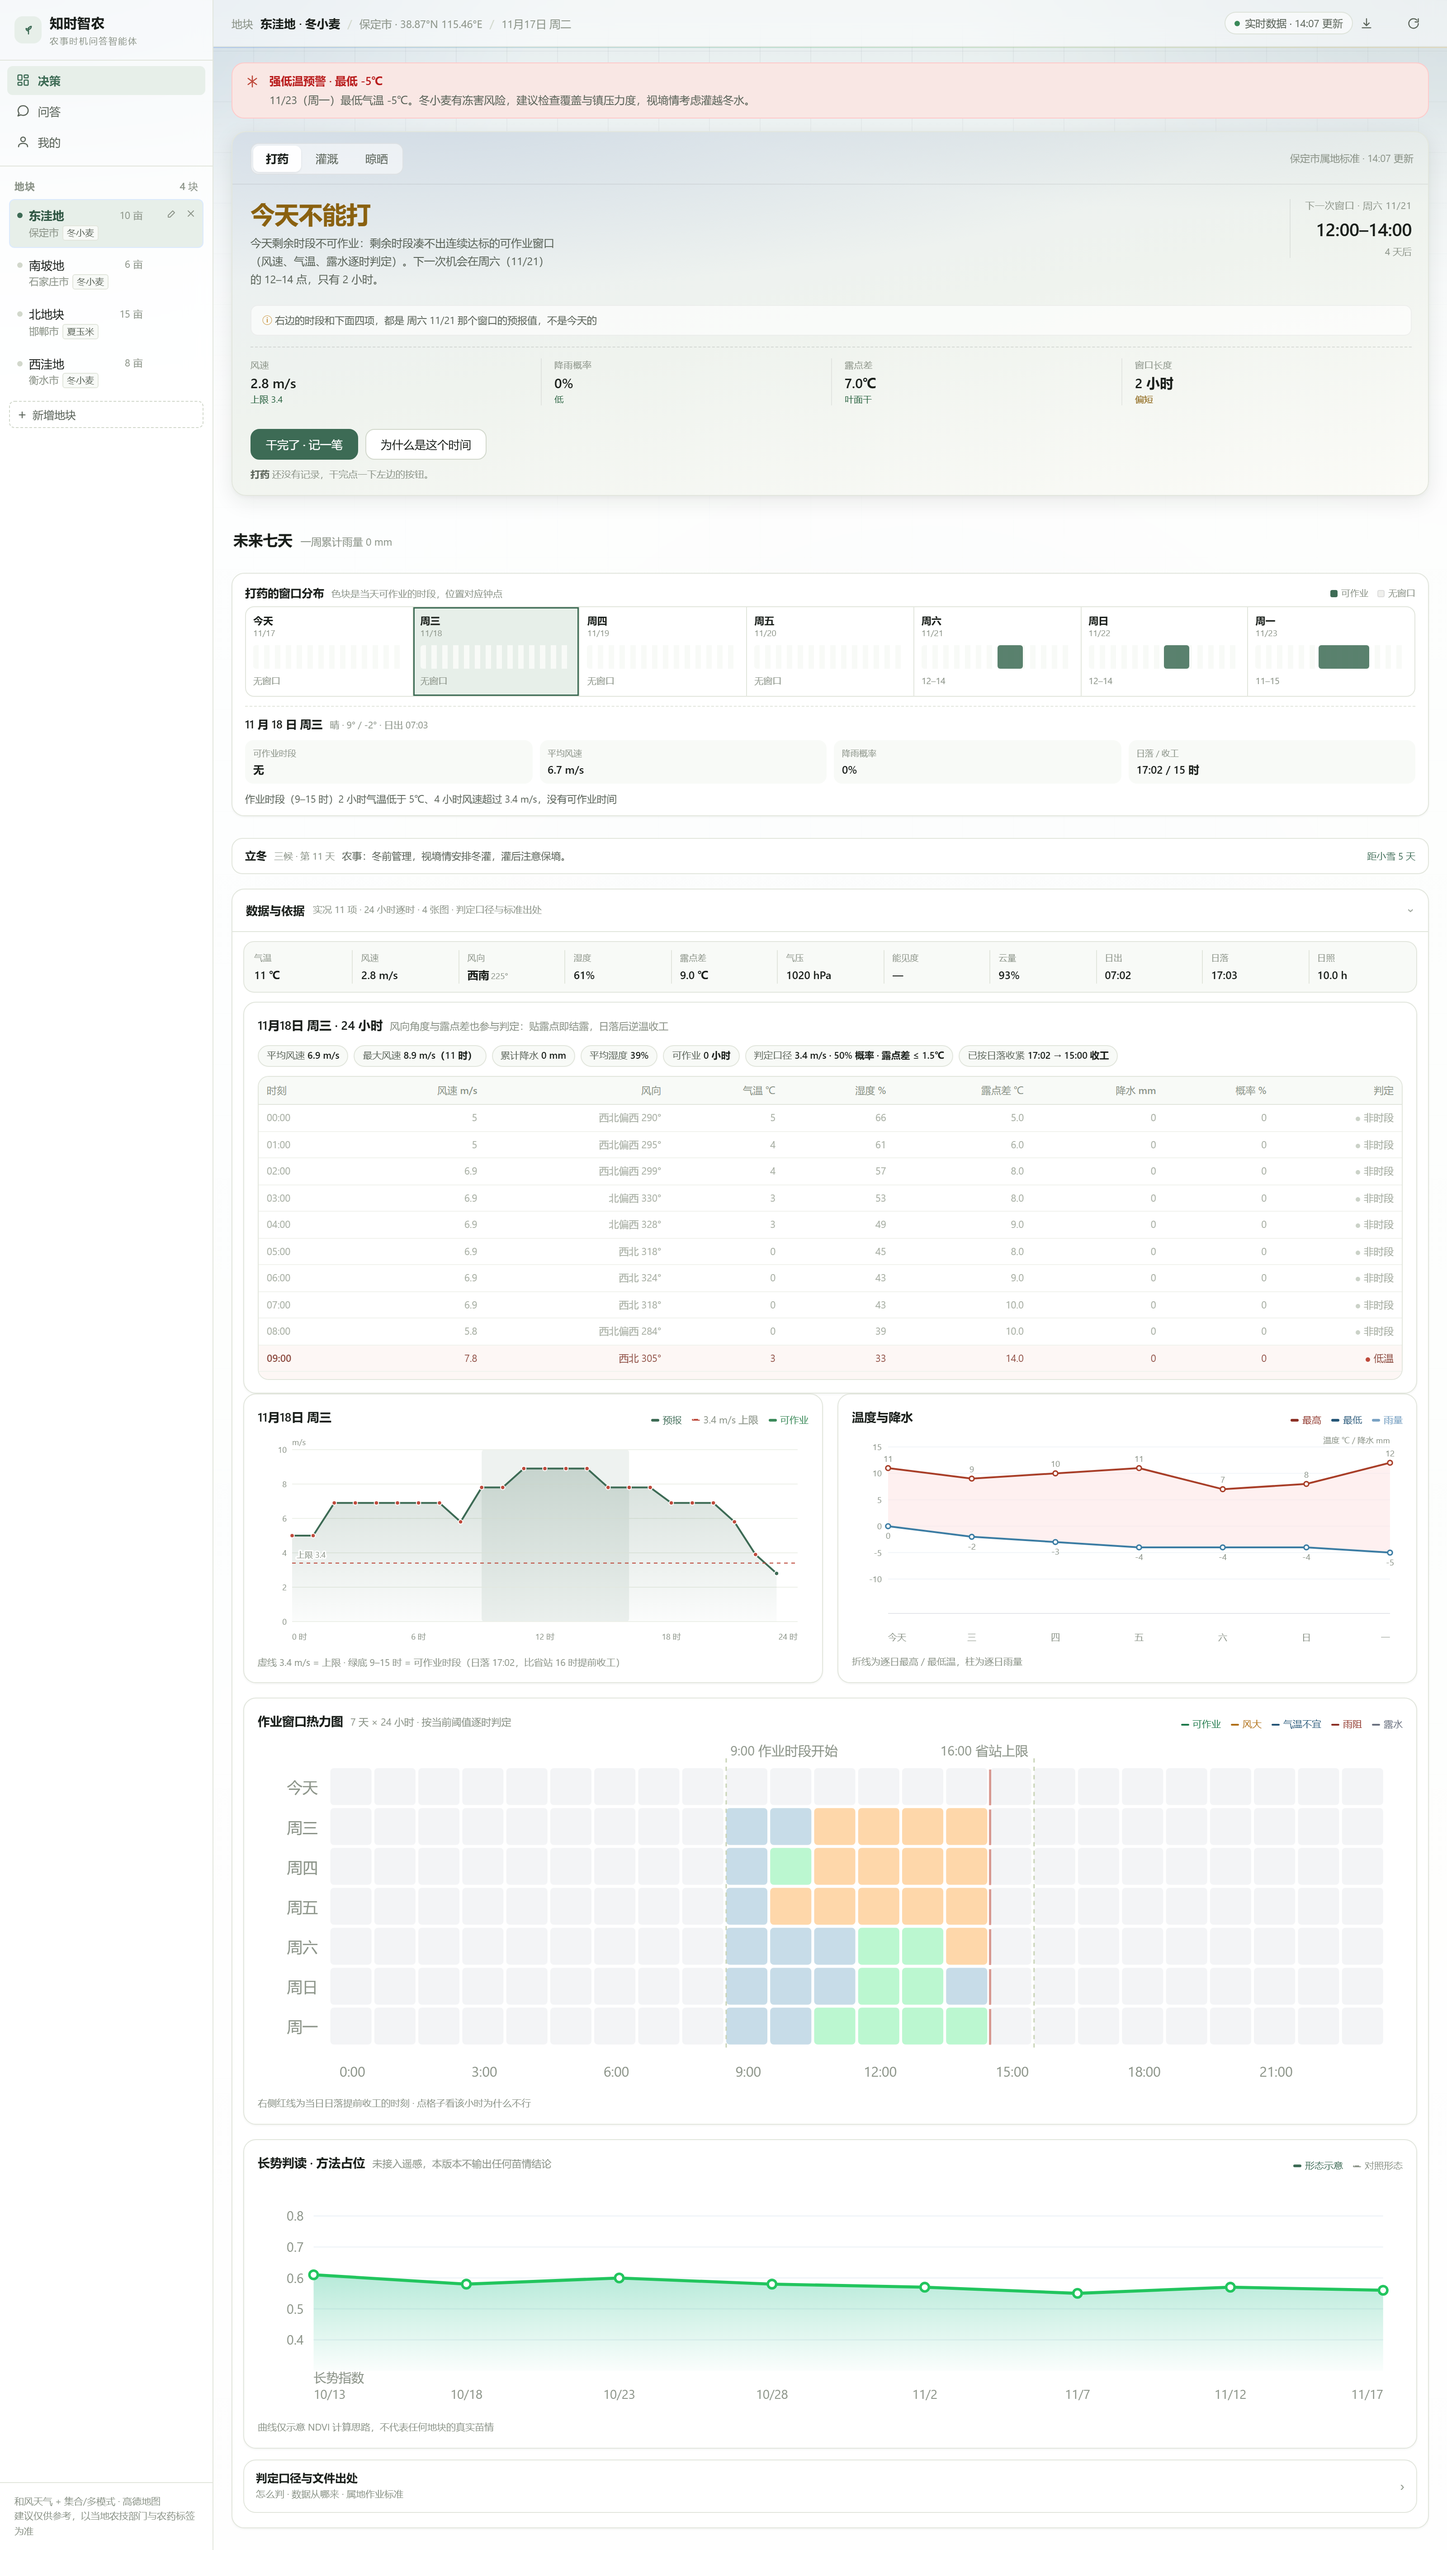
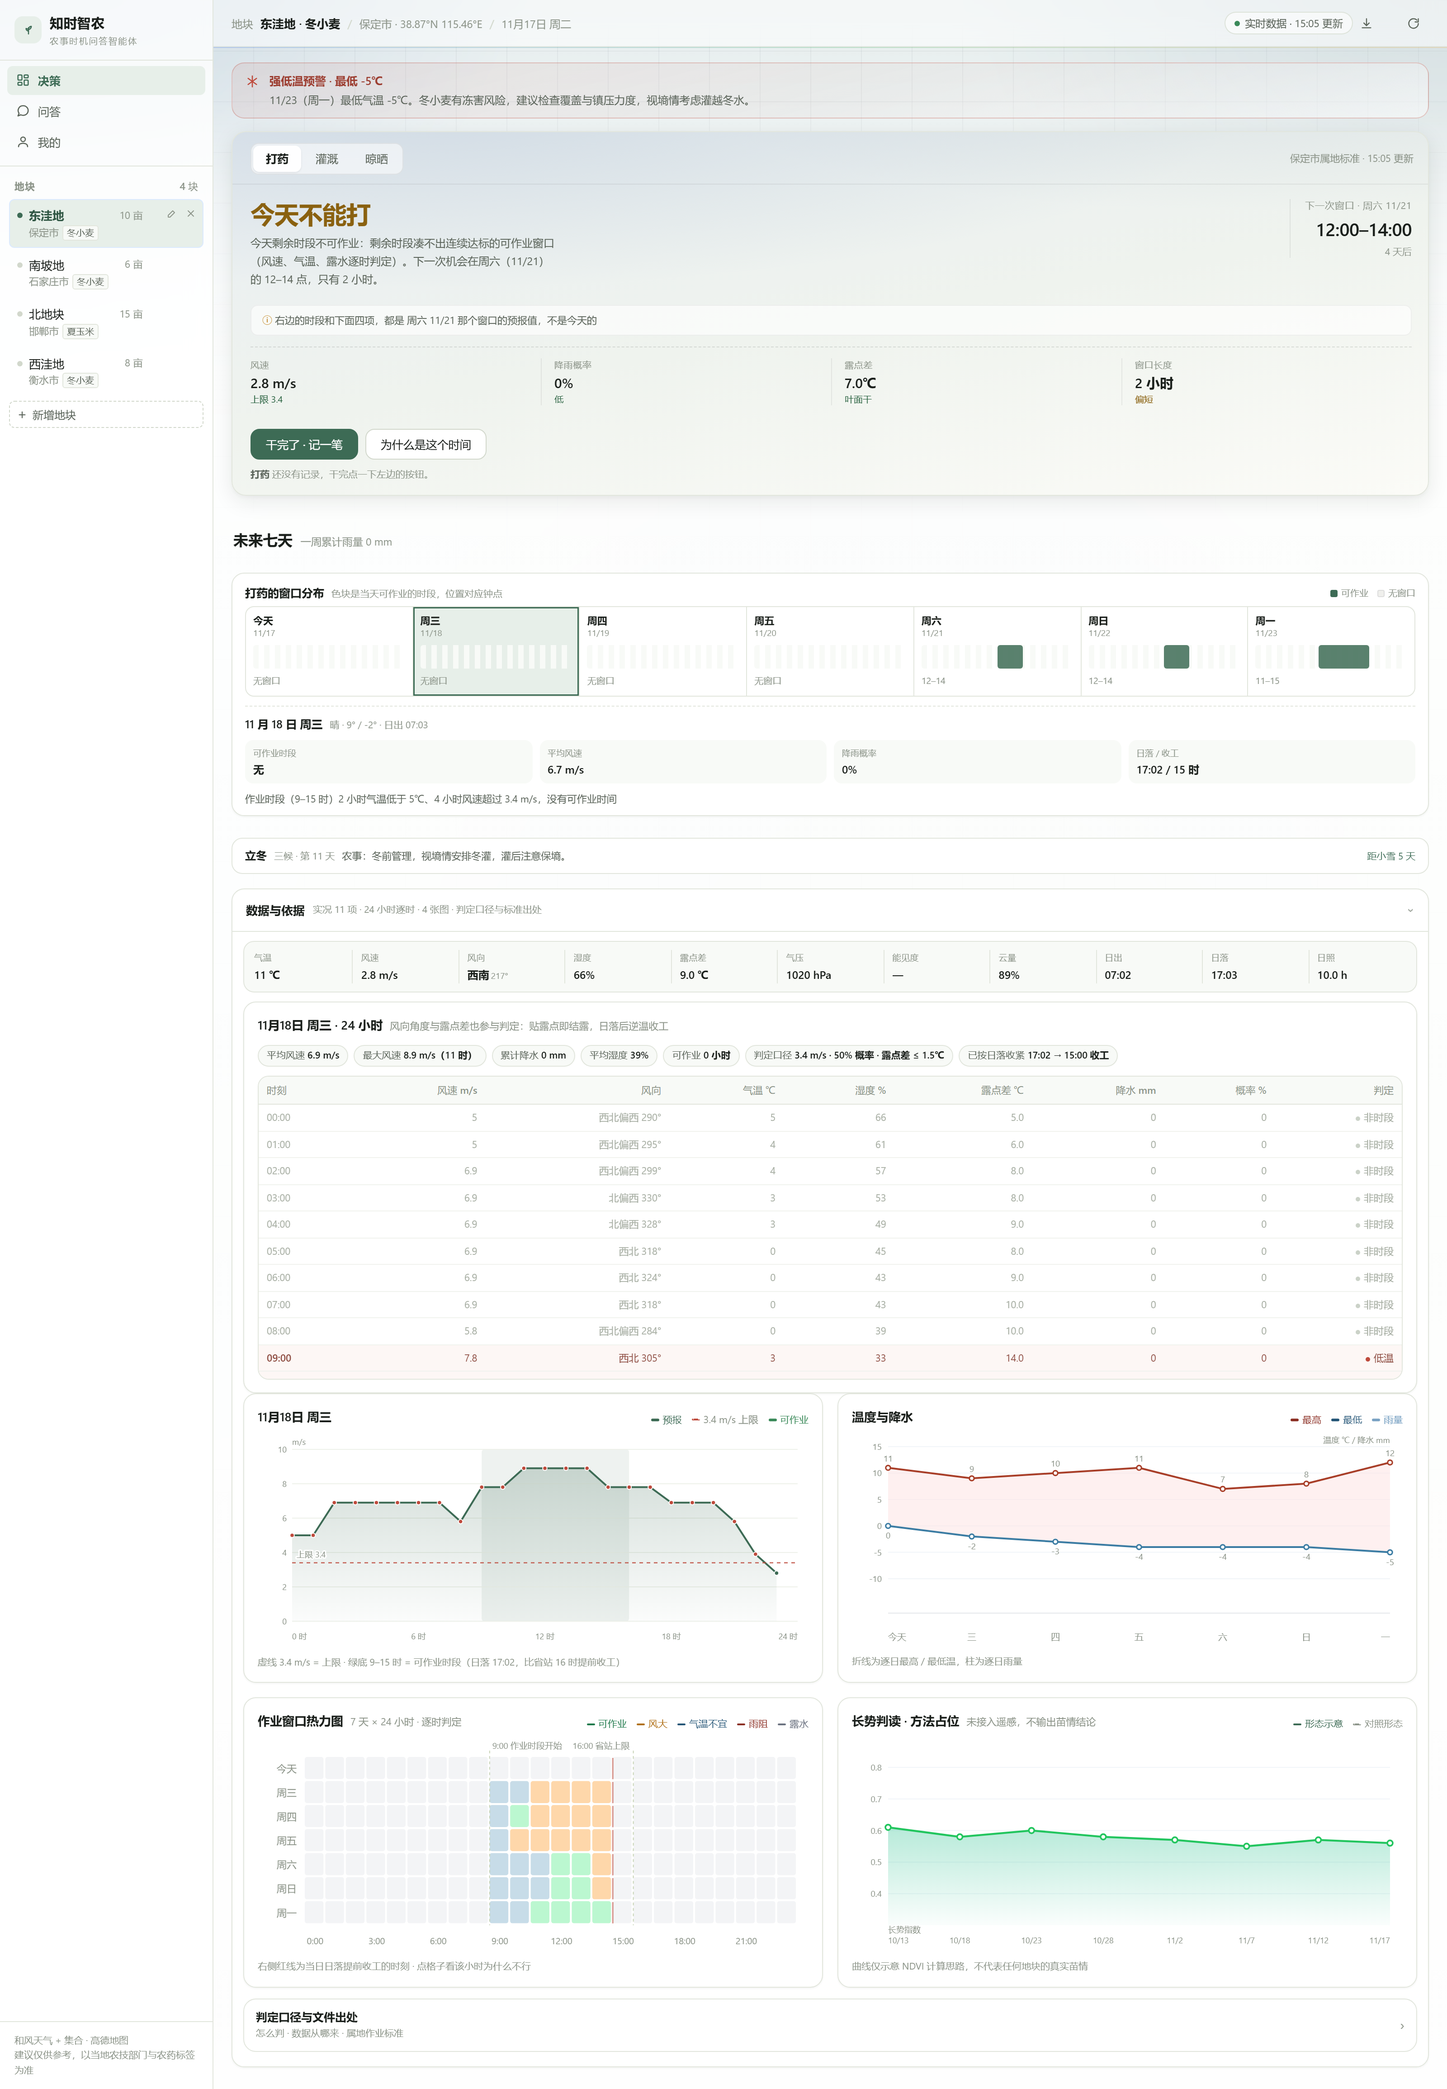
图表区收成 2×2 等高网格（热力图/长势图不再占全宽），告警条改半透明白底淡色描边融入全页基调

diff --git a/site/index.html b/site/index.html
@@ -326,7 +326,7 @@ button{font-family:inherit}
 .alert{
   display:flex;align-items:flex-start;gap:11px;
   padding:11px 14px;border-radius:var(--r-md);border:1px solid;
-  background:var(--surface);
+  background:rgba(255,255,255,.7);
 }
 .alert .a-icon{flex:none;margin-top:1px}
 .alert .a-body{flex:1;min-width:0}
@@ -334,17 +334,23 @@ button{font-family:inherit}
 .alert .a-desc{font-size:12px;color:var(--text-2);margin-top:2px;line-height:1.55}
 .alert .a-act{flex:none;display:flex;gap:6px;align-items:center}
 
-.alert.danger{border-color:#fecaca;background:var(--danger-weak)}
-.alert.danger .a-title{color:#b91c1c}
+/* 告警：不再用整条浅红/浅黄色块（与全页米绿基调打架），
+   改成卡片同语言的半透明白底 + 淡色描边， severity 只落在图标、标题和描边上 */
+.alert.danger{border-color:rgba(190,74,60,.28);
+  background:linear-gradient(165deg,rgba(190,74,60,.09),rgba(190,74,60,.03) 55%,rgba(255,255,255,.5))}
+.alert.danger .a-title{color:#9C3D30}
 .alert.danger .a-icon{color:var(--danger)}
-.alert.warn{border-color:#fde68a;background:var(--warn-weak)}
-.alert.warn .a-title{color:#b45309}
+.alert.warn{border-color:rgba(176,112,24,.30);
+  background:linear-gradient(165deg,rgba(176,112,24,.09),rgba(176,112,24,.03) 55%,rgba(255,255,255,.5))}
+.alert.warn .a-title{color:#8A6110}
 .alert.warn .a-icon{color:var(--warn)}
-.alert.info{border-color:#C7DCE8;background:var(--brand-weak)}
+.alert.info{border-color:rgba(47,86,67,.22);
+  background:linear-gradient(165deg,rgba(61,98,71,.08),rgba(61,98,71,.03) 55%,rgba(255,255,255,.5))}
 .alert.info .a-title{color:#2F5643}
 .alert.info .a-icon{color:var(--brand)}
-.alert.success{border-color:#bbf7d0;background:var(--success-weak)}
-.alert.success .a-title{color:#15803d}
+.alert.success{border-color:rgba(33,92,57,.24);
+  background:linear-gradient(165deg,rgba(33,92,57,.08),rgba(33,92,57,.03) 55%,rgba(255,255,255,.5))}
+.alert.success .a-title{color:#215C39}
 .alert.success .a-icon{color:var(--success)}
 
 /* 雨量迷你柱 */
@@ -2421,9 +2427,9 @@ body.wx-night .bg-veil{background:linear-gradient(180deg,
           <div class="chart-note">折线为逐日最高 / 最低温，柱为逐日雨量</div>
         </div>
 
-        <div class="cbox chart-card wide">
+        <div class="cbox chart-card">
           <div class="cbox-h">
-            <b>作业窗口热力图</b><span>7 天 × 24 小时 · 按当前阈值逐时判定</span>
+            <b>作业窗口热力图</b><span>7 天 × 24 小时 · 逐时判定</span>
             <div class="lg">
               <i style="color:#1F7A4C"><s></s>可作业</i>
               <i style="color:#B07018"><s></s>风大</i>
@@ -2436,9 +2442,9 @@ body.wx-night .bg-veil{background:linear-gradient(180deg,
           <div class="chart-note" id="heatNote">右侧红线为当日日落提前收工的时刻 · 点格子看该小时为什么不行</div>
         </div>
 
-        <div class="cbox chart-card wide">
+        <div class="cbox chart-card">
           <div class="cbox-h">
-            <b>长势判读 · 方法占位</b><span>未接入遥感，本版本不输出任何苗情结论</span>
+            <b>长势判读 · 方法占位</b><span>未接入遥感，不输出苗情结论</span>
             <div class="lg">
               <i style="color:#3D6B55"><s></s>形态示意</i>
               <i style="color:#8D958A"><s class="dash"></s>对照形态</i>

diff --git a/web/index.html b/web/index.html
@@ -326,7 +326,7 @@ button{font-family:inherit}
 .alert{
   display:flex;align-items:flex-start;gap:11px;
   padding:11px 14px;border-radius:var(--r-md);border:1px solid;
-  background:var(--surface);
+  background:rgba(255,255,255,.7);
 }
 .alert .a-icon{flex:none;margin-top:1px}
 .alert .a-body{flex:1;min-width:0}
@@ -334,17 +334,23 @@ button{font-family:inherit}
 .alert .a-desc{font-size:12px;color:var(--text-2);margin-top:2px;line-height:1.55}
 .alert .a-act{flex:none;display:flex;gap:6px;align-items:center}
 
-.alert.danger{border-color:#fecaca;background:var(--danger-weak)}
-.alert.danger .a-title{color:#b91c1c}
+/* 告警：不再用整条浅红/浅黄色块（与全页米绿基调打架），
+   改成卡片同语言的半透明白底 + 淡色描边， severity 只落在图标、标题和描边上 */
+.alert.danger{border-color:rgba(190,74,60,.28);
+  background:linear-gradient(165deg,rgba(190,74,60,.09),rgba(190,74,60,.03) 55%,rgba(255,255,255,.5))}
+.alert.danger .a-title{color:#9C3D30}
 .alert.danger .a-icon{color:var(--danger)}
-.alert.warn{border-color:#fde68a;background:var(--warn-weak)}
-.alert.warn .a-title{color:#b45309}
+.alert.warn{border-color:rgba(176,112,24,.30);
+  background:linear-gradient(165deg,rgba(176,112,24,.09),rgba(176,112,24,.03) 55%,rgba(255,255,255,.5))}
+.alert.warn .a-title{color:#8A6110}
 .alert.warn .a-icon{color:var(--warn)}
-.alert.info{border-color:#C7DCE8;background:var(--brand-weak)}
+.alert.info{border-color:rgba(47,86,67,.22);
+  background:linear-gradient(165deg,rgba(61,98,71,.08),rgba(61,98,71,.03) 55%,rgba(255,255,255,.5))}
 .alert.info .a-title{color:#2F5643}
 .alert.info .a-icon{color:var(--brand)}
-.alert.success{border-color:#bbf7d0;background:var(--success-weak)}
-.alert.success .a-title{color:#15803d}
+.alert.success{border-color:rgba(33,92,57,.24);
+  background:linear-gradient(165deg,rgba(33,92,57,.08),rgba(33,92,57,.03) 55%,rgba(255,255,255,.5))}
+.alert.success .a-title{color:#215C39}
 .alert.success .a-icon{color:var(--success)}
 
 /* 雨量迷你柱 */
@@ -2421,9 +2427,9 @@ body.wx-night .bg-veil{background:linear-gradient(180deg,
           <div class="chart-note">折线为逐日最高 / 最低温，柱为逐日雨量</div>
         </div>
 
-        <div class="cbox chart-card wide">
+        <div class="cbox chart-card">
           <div class="cbox-h">
-            <b>作业窗口热力图</b><span>7 天 × 24 小时 · 按当前阈值逐时判定</span>
+            <b>作业窗口热力图</b><span>7 天 × 24 小时 · 逐时判定</span>
             <div class="lg">
               <i style="color:#1F7A4C"><s></s>可作业</i>
               <i style="color:#B07018"><s></s>风大</i>
@@ -2436,9 +2442,9 @@ body.wx-night .bg-veil{background:linear-gradient(180deg,
           <div class="chart-note" id="heatNote">右侧红线为当日日落提前收工的时刻 · 点格子看该小时为什么不行</div>
         </div>
 
-        <div class="cbox chart-card wide">
+        <div class="cbox chart-card">
           <div class="cbox-h">
-            <b>长势判读 · 方法占位</b><span>未接入遥感，本版本不输出任何苗情结论</span>
+            <b>长势判读 · 方法占位</b><span>未接入遥感，不输出苗情结论</span>
             <div class="lg">
               <i style="color:#3D6B55"><s></s>形态示意</i>
               <i style="color:#8D958A"><s class="dash"></s>对照形态</i>

diff --git a/site/app.js b/site/app.js
@@ -291,7 +291,7 @@
        24 列的刻度和色块都看不全。改成按容器宽实时算，列宽自动收窄。 */
     var W = width || 620;
     var narrow = W < 470;
-    var H = 252, L = narrow ? 38 : 52, R = 12, TP = 22, B = 30;
+    var H = 238, L = narrow ? 38 : 52, R = 12, TP = 22, B = 30;
     var cw = (W - L - R) / 24, chh = (H - TP - B) / days.length;
 
     var p = [];
@@ -475,7 +475,8 @@
   /** 长势趋势（示意数据） */
   function growthSvg(plot, width) {
     var pts = T.growthTrend(plot, 8);
-    var W = width || 620, H = 168, L = 40, R = 14, TP = 16, B = 30;
+    /* 与其余三张图统一 238 高：2×2 网格里四张卡才真正对齐 */
+    var W = width || 620, H = 238, L = 40, R = 14, TP = 16, B = 30;
     var iw = W - L - R, ih = H - TP - B;
     var ymin = 0.30, ymax = 0.85;
     var x = function (i) { return L + i / (pts.length - 1) * iw; };

diff --git a/web/app.js b/web/app.js
@@ -291,7 +291,7 @@
        24 列的刻度和色块都看不全。改成按容器宽实时算，列宽自动收窄。 */
     var W = width || 620;
     var narrow = W < 470;
-    var H = 252, L = narrow ? 38 : 52, R = 12, TP = 22, B = 30;
+    var H = 238, L = narrow ? 38 : 52, R = 12, TP = 22, B = 30;
     var cw = (W - L - R) / 24, chh = (H - TP - B) / days.length;
 
     var p = [];
@@ -475,7 +475,8 @@
   /** 长势趋势（示意数据） */
   function growthSvg(plot, width) {
     var pts = T.growthTrend(plot, 8);
-    var W = width || 620, H = 168, L = 40, R = 14, TP = 16, B = 30;
+    /* 与其余三张图统一 238 高：2×2 网格里四张卡才真正对齐 */
+    var W = width || 620, H = 238, L = 40, R = 14, TP = 16, B = 30;
     var iw = W - L - R, ih = H - TP - B;
     var ymin = 0.30, ymax = 0.85;
     var x = function (i) { return L + i / (pts.length - 1) * iw; };

diff --git a/site/sw.js b/site/sw.js
@@ -18,7 +18,7 @@
 
 /* build-site.mjs 会把 __BUILD__ 替换成构建时间戳；
    开发时（web/ 目录直接打开）保持 dev，不影响使用 */
-const BUILD_ID = '20261117060910';
+const BUILD_ID = '20261117070700';
 const VERSION = /^__BUILD__$/.test(BUILD_ID) ? 'dev' : BUILD_ID;
 
 const CACHE = 'zhishi-zhinong-' + VERSION;
